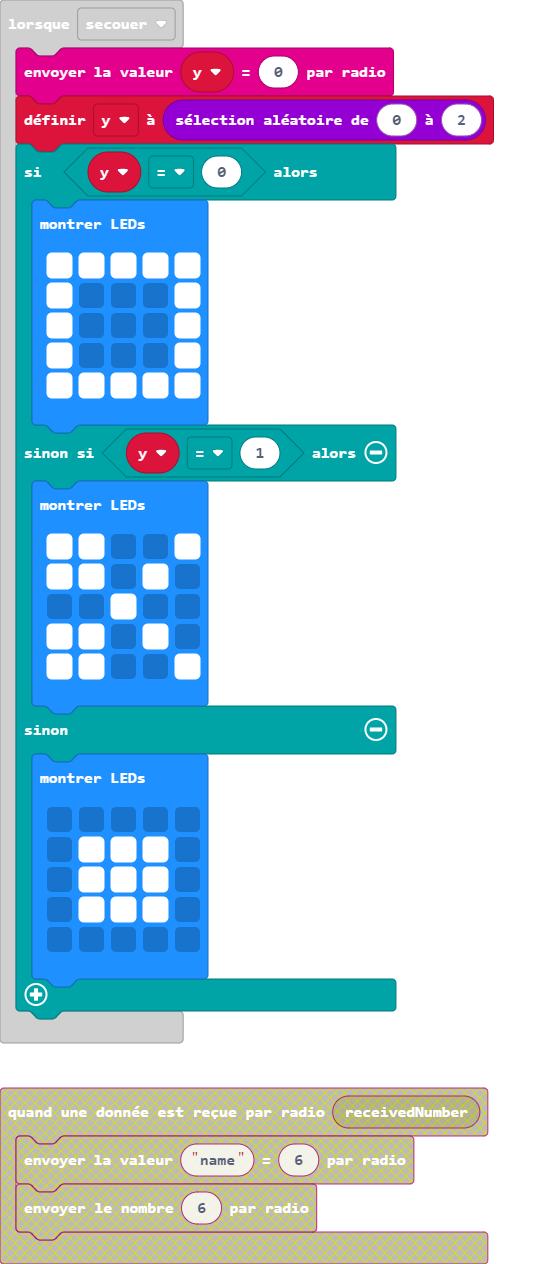
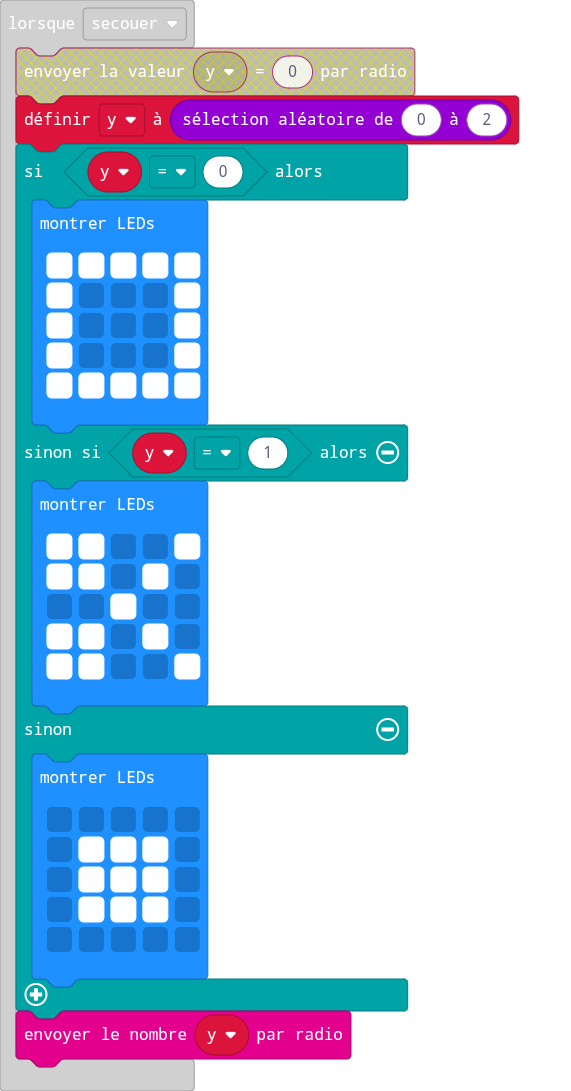
Mettre à jour main.blocks, main.ts

diff --git a/main.ts b/main.ts
@@ -1,6 +1,6 @@
-let y = ""
+let y = 0
 input.onGesture(Gesture.Shake, function () {
-    radio.sendValue(y, 0)
+    radio.sendNumber(y)
     y = randint(0, 2)
     if (y == 0) {
         basic.showLeds(`
